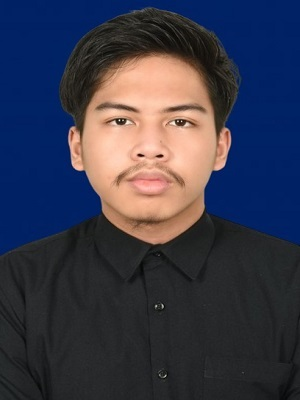
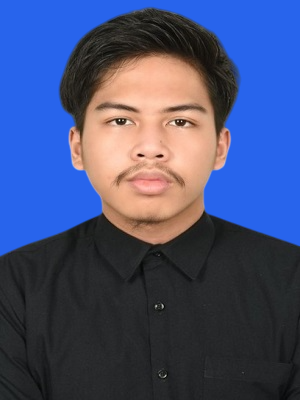
update

diff --git a/src/components/Hero.tsx b/src/components/Hero.tsx
@@ -9,11 +9,15 @@ const Hero: React.FC = () => {
         <div className="space-y-8">
           {/* Profile Image Placeholder */}
           <div className="flex justify-center">
-            <div className="w-32 h-32 rounded-full bg-gradient-to-br from-blue-600 to-teal-600 
-                          flex items-center justify-center shadow-xl animate-pulse">
-              <span className="text-3xl font-bold text-white">MA</span>
-            </div>
-          </div>
+  <div className="w- h-72 rounded-full bg-gradient-to-br from-blue-600 to-teal-600 
+                  flex items-center justify-center shadow-xl  overflow-hidden">
+    <img
+      src="https://github.com/AbrisamYuhartono/Portofolio/blob/main/Media/Muhammad%20Abrisam%20Cahyo%20Juhartono_Teknik%20Komputer.jpg?raw=true"
+      alt="Muhammad Abrisam Cahyo Juhartono"
+      className="w-full h-full object-cover"
+    />
+  </div>
+</div>
 
           {/* Name and Title */}
           <div className="space-y-4">
